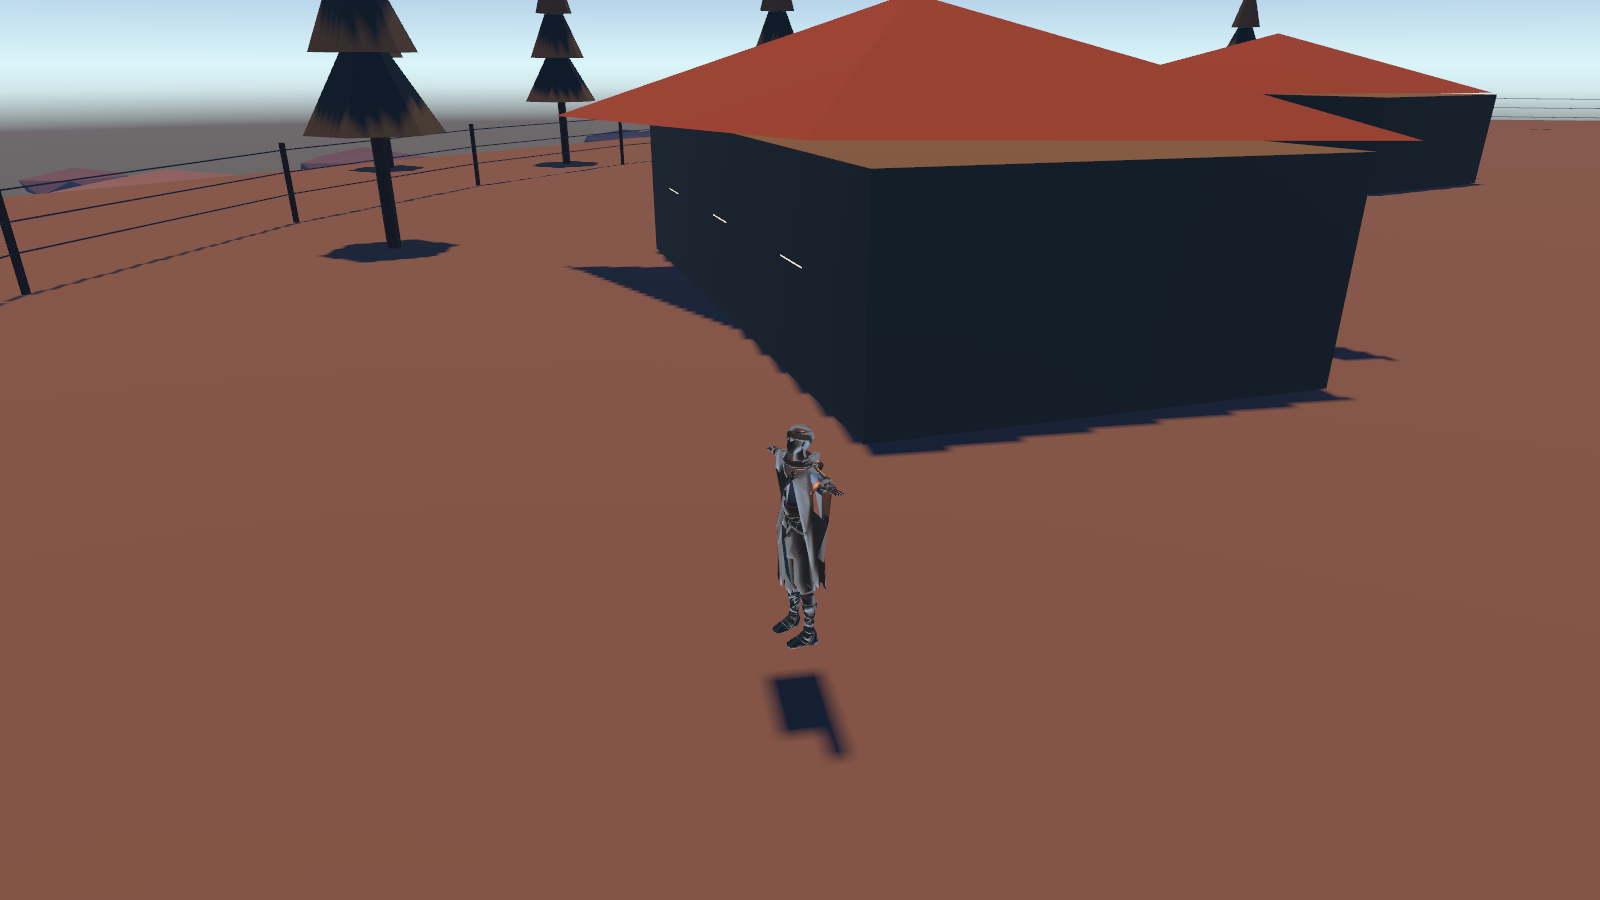
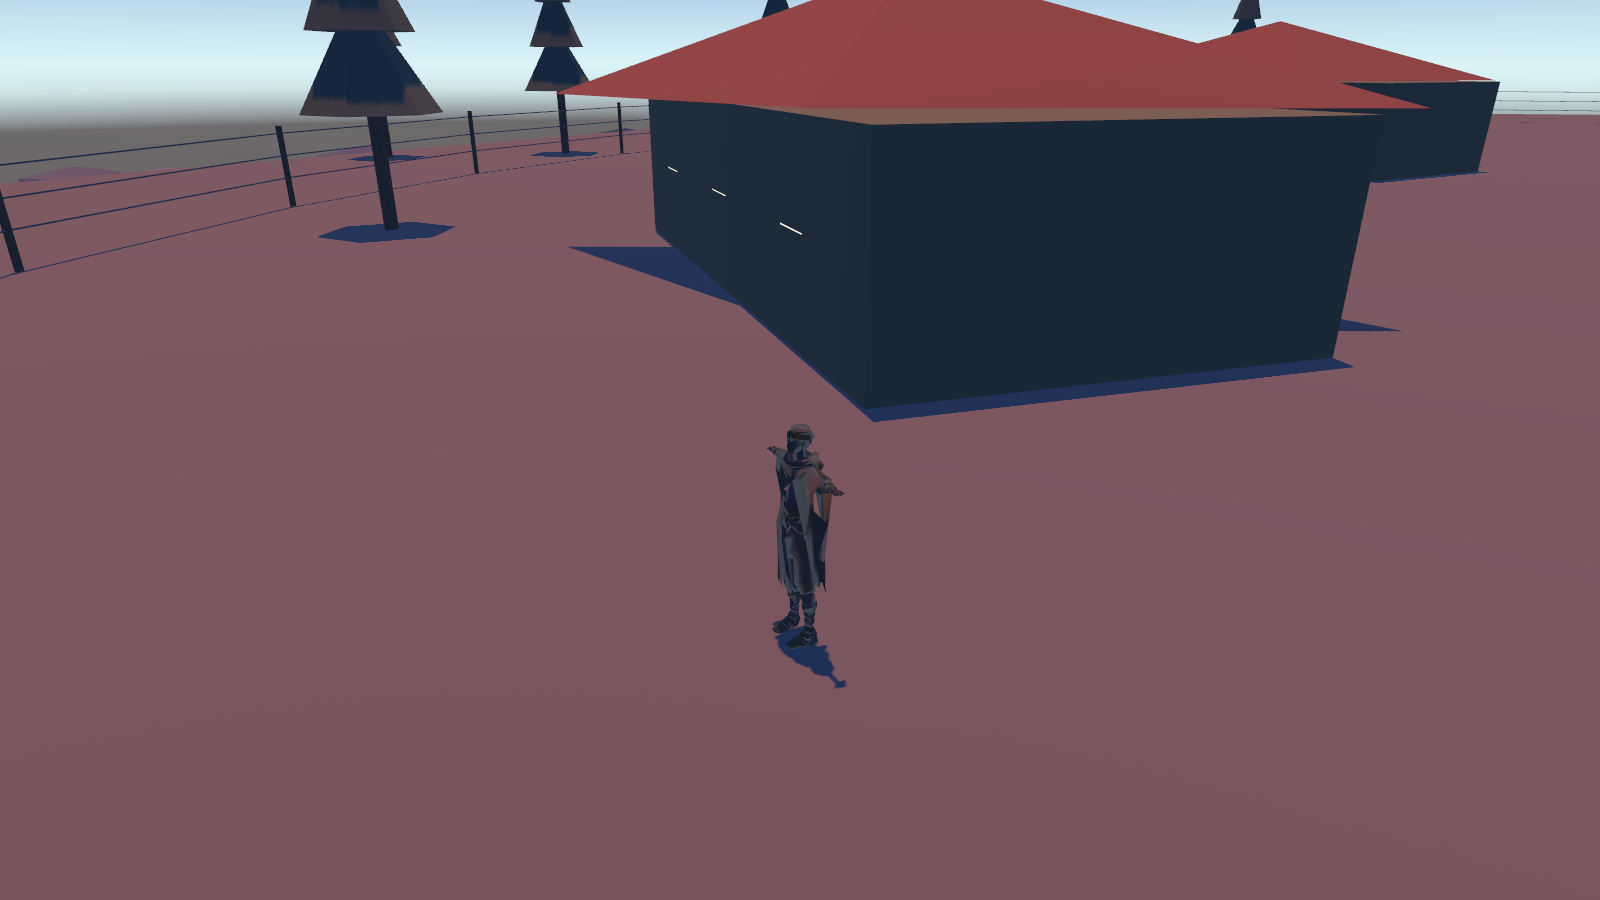
动画 GLB 强制 Legacy 导入（修 T-pose）；环境光上限防过曝；运行态截图改按秒并锁 30fps

diff --git a/unity/SanTiGame/Assets/Scripts/Runtime/PlayCaptureRunner.cs b/unity/SanTiGame/Assets/Scripts/Runtime/PlayCaptureRunner.cs
@@ -15,17 +15,18 @@ namespace SanTi
 
         public string outDir;
         public string[] scenePaths;
-        public int[] frames = { 30, 150, 360 };
-        public bool autoWalk = true;            // 第 150 帧后让玩家向前走，检查 walk 动画与碰撞
+        public float[] times = { 1.0f, 4.0f, 9.0f };   // 场景内秒数；4 s 起自动前行，检查 walk 动画与碰撞
+        public float walkFrom = 4.0f;
+        public bool autoWalk = true;
 
-        int _sceneIdx = -1, _frame;
+        int _sceneIdx = -1, _shotIdx; float _t;
 
-        void Awake() { DontDestroyOnLoad(gameObject); }
+        void Awake() { DontDestroyOnLoad(gameObject); Application.targetFrameRate = 30; }
         void Start() { Next(); }
 
         void Next()
         {
-            _sceneIdx++; _frame = 0;
+            _sceneIdx++; _shotIdx = 0; _t = 0f;
             if (scenePaths == null || _sceneIdx >= scenePaths.Length) { Debug.Log("[SanTi] PlayCapture finished"); OnFinished?.Invoke(); enabled = false; return; }
             Debug.Log("[SanTi] PlayCapture loading " + scenePaths[_sceneIdx]);
             SceneManager.LoadScene(scenePaths[_sceneIdx]);
@@ -34,20 +35,20 @@ namespace SanTi
         void LateUpdate()
         {
             if (_sceneIdx < 0 || _sceneIdx >= scenePaths.Length) return;
-            _frame++;
-            if (autoWalk && _frame > 150) GameState.AutoMove = new Vector2(0, 1);
-            else GameState.AutoMove = Vector2.zero;
+            _t += Time.deltaTime;
+            GameState.AutoMove = (autoWalk && _t > walkFrom) ? new Vector2(0, 1) : Vector2.zero;
 
-            if (frames.Contains(_frame))
+            if (_shotIdx < times.Length && _t >= times[_shotIdx])
             {
                 var cam = Camera.main;
                 if (cam != null)
                 {
                     string id = Path.GetFileNameWithoutExtension(scenePaths[_sceneIdx]);
-                    Shot(cam, Path.Combine(outDir, $"{id}_play_f{_frame:D3}.png"), 1600, 900);
+                    Shot(cam, Path.Combine(outDir, $"{id}_play_t{times[_shotIdx]:00.0}s.png"), 1600, 900);
                 }
+                _shotIdx++;
             }
-            if (_frame > frames.Max()) { GameState.AutoMove = Vector2.zero; Next(); }
+            if (_shotIdx >= times.Length) { GameState.AutoMove = Vector2.zero; Next(); }
         }
 
         public static void Shot(Camera cam, string file, int w, int h)

diff --git a/unity/SanTiGame/Assets/Scripts/Editor/SceneBuilder.cs b/unity/SanTiGame/Assets/Scripts/Editor/SceneBuilder.cs
@@ -53,13 +53,14 @@ namespace SanTi.Editor
                 // Blender 太阳欧拉角(近似) → Unity：俯仰取 90-x，偏航取 z
                 sunGo.transform.rotation = Quaternion.Euler(90f - a[0], 180f - a[2], 0f);   // Blender 太阳 (rx,0,rz) → Unity，见 scripts/coords.py sun_to_unity
                 // 第 5 轮盲审：线性色彩空间下 ×0.6 仍过曝（乱纪元一片白），改为 ×0.5 并封顶 2.0；阴影面全黑 → 环境光改三色并提亮
-                sun.intensity = Mathf.Clamp(data.lighting.intensity * 0.5f, 0.3f, 2.0f);
+                sun.intensity = Mathf.Clamp(data.lighting.intensity * 0.5f, 0.3f, 1.3f);
                 sun.color = ColorUtil.Hex(data.lighting.sunColor, Color.white);
                 var amb = ColorUtil.Hex(data.lighting.ambient, Color.gray);
+                float k = Mathf.Min(1.6f, 0.95f / Mathf.Max(0.05f, Mathf.Max(amb.r, Mathf.Max(amb.g, amb.b))));   // 亮环境（乱纪元白地）不再抬到 >1
                 RenderSettings.ambientMode = AmbientMode.Trilight;
-                RenderSettings.ambientSkyColor = amb * 2.0f;
-                RenderSettings.ambientEquatorColor = amb * 1.4f;
-                RenderSettings.ambientGroundColor = amb * 0.7f;
+                RenderSettings.ambientSkyColor = amb * k;
+                RenderSettings.ambientEquatorColor = amb * (k * 0.75f);
+                RenderSettings.ambientGroundColor = amb * (k * 0.45f);
                 if (data.lighting.fog != null)
                 {
                     RenderSettings.fog = true; RenderSettings.fogMode = FogMode.Linear;

diff --git a/unity/SanTiGame/Assets/Scripts/Editor/Pipeline.cs b/unity/SanTiGame/Assets/Scripts/Editor/Pipeline.cs
@@ -80,6 +80,20 @@ namespace SanTi.Editor
 
             AssetDatabase.SaveAssets();
 
+            // 角色动画 GLB 必须以 Legacy 方式导入（CharacterAnimator 用 Animation.CrossFade）；glTFast 默认 Mecanim(2) → 改 meta 为 Legacy(1)
+            bool animFixed = false;
+            foreach (var glb in Directory.GetFiles("Assets/Models/Anim", "*.glb"))
+            {
+                string meta = glb + ".meta";
+                if (!File.Exists(meta)) continue;
+                string txt = File.ReadAllText(meta);
+                if (txt.Contains("animationMethod: 1")) continue;
+                txt = System.Text.RegularExpressions.Regex.Replace(txt, @"animationMethod: \d", "animationMethod: 1");
+                File.WriteAllText(meta, txt); animFixed = true;
+                Debug.Log("[SanTi] set Legacy animation import: " + glb);
+            }
+            if (animFixed) AssetDatabase.ImportAsset("Assets/Models/Anim", ImportAssetOptions.ImportRecursive | ImportAssetOptions.ForceUpdate);
+
             // glTFast 在导入时按当前管线挑着色器：首次导入发生在 URP 指定之前 → 必须重导一次
             if (!wasUrp)
             {
